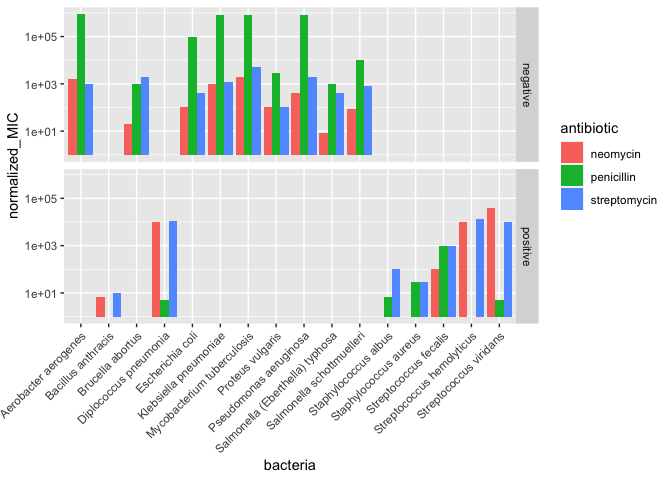
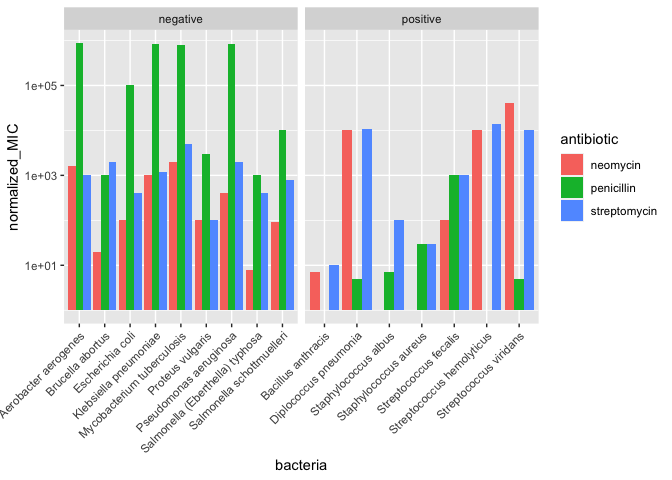
Resubmitting assignment 5

Changed region(s): [[0.0, 0.0, 1.0, 0.9375], [0.4062, 0.9375, 0.5, 1.0]]

diff --git a/challenges/c05-antibiotics-assignment.md b/challenges/c05-antibiotics-assignment.md
@@ -163,15 +163,36 @@ df_pivoted <-
   )
 
 
+min_MIC <- min(df_pivoted$MIC)
 df_pivoted %>%
-  mutate(normalized_MIC = MIC / min(MIC)) %>% 
+  mutate(normalized_MIC = MIC / min_MIC) %>% 
   ggplot() + 
   geom_col(position = "dodge", aes(fill = antibiotic, x = bacteria, y = normalized_MIC)) +
   theme(axis.text.x = element_text(angle = 45, hjust = 1)) +
-  scale_y_log10()
+  scale_y_log10() +
+  geom_hline(yintercept = 0.1/min_MIC)
 ```
 
 ![](c05-antibiotics-assignment_files/figure-gfm/q1.1-1.png)<!-- -->
+
+``` r
+df_pivoted
+```
+
+    ## # A tibble: 48 × 4
+    ##    bacteria              gram     antibiotic       MIC
+    ##    <chr>                 <chr>    <chr>          <dbl>
+    ##  1 Aerobacter aerogenes  negative penicillin   870    
+    ##  2 Aerobacter aerogenes  negative streptomycin   1    
+    ##  3 Aerobacter aerogenes  negative neomycin       1.6  
+    ##  4 Brucella abortus      negative penicillin     1    
+    ##  5 Brucella abortus      negative streptomycin   2    
+    ##  6 Brucella abortus      negative neomycin       0.02 
+    ##  7 Bacillus anthracis    positive penicillin     0.001
+    ##  8 Bacillus anthracis    positive streptomycin   0.01 
+    ##  9 Bacillus anthracis    positive neomycin       0.007
+    ## 10 Diplococcus pneumonia positive penicillin     0.005
+    ## # … with 38 more rows
 
 #### Visual 2 (All variables)
 
@@ -190,7 +211,7 @@ df_pivoted %>%
   geom_col(position = "dodge", aes(fill = antibiotic, x = bacteria, y = normalized_MIC)) +
   theme(axis.text.x = element_text(angle = 45, hjust = 1)) +
   scale_y_log10() +
-  facet_grid(rows = vars(gram))
+  facet_grid(cols = vars(gram), scales = "free_x") 
 ```
 
 ![](c05-antibiotics-assignment_files/figure-gfm/q1.2-1.png)<!-- -->
@@ -205,7 +226,7 @@ Note that your visual must be *qualitatively different* from *all* of
 your other visuals.
 
 ``` r
-# WRITE YOUR CODE HERE
+# Visual 3
 df_pivoted %>%
   filter(antibiotic == "penicillin") %>% 
   mutate(normalized_MIC = MIC / min(MIC)) %>%
@@ -216,7 +237,7 @@ df_pivoted %>%
   scale_y_log10()
 ```
 
-![](c05-antibiotics-assignment_files/figure-gfm/q1.3-1.png)<!-- -->
+![](c05-antibiotics-assignment_files/figure-gfm/q1.3_modified-1.png)<!-- -->
 
 #### Visual 4 (Some variables)
 
@@ -228,17 +249,24 @@ Note that your visual must be *qualitatively different* from *all* of
 your other visuals.
 
 ``` r
-df_pivoted %>%
-  filter(antibiotic == "streptomycin") %>% 
-  mutate(normalized_MIC = MIC / min(MIC)) %>%
-  arrange(+normalized_MIC) %>%
-  ggplot() + 
-  geom_col(position = "dodge", aes(fill = antibiotic, x = reorder(bacteria, normalized_MIC), y = normalized_MIC)) +
+df_antibiotics %>%
+  rowwise() %>% 
+  mutate(max_MIC = 100000 * min(penicillin, streptomycin, neomycin)) %>% 
+  ggplot(aes(x = reorder(bacteria, max_MIC), y = max_MIC, fill = gram)) +
+  geom_col(position = "dodge") +
+  labs(title = "MIC values by Gram stain of bacteria",
+       x = "Bacteria", y = " Max MIC value * 10^5",
+       fill = "Gram Stain") +
+  scale_fill_manual(values = c("purple", "yellow")) +
+  scale_color_identity(guide = "none") +
+  theme_minimal() +
+  theme(legend.position = "bottom") + 
   theme(axis.text.x = element_text(angle = 45, hjust = 1)) +
-  scale_y_log10()
+  scale_y_continuous(trans = "log10", limits = c(0.01, NA), breaks = c(0.01, 0.1, 1, 10, 100)) +
+  geom_hline(yintercept = 10000)
 ```
 
-![](c05-antibiotics-assignment_files/figure-gfm/q1.4-1.png)<!-- -->
+![](c05-antibiotics-assignment_files/figure-gfm/q1.4_modified-1.png)<!-- -->
 
 #### Visual 5 (Some variables)
 
@@ -250,16 +278,26 @@ Note that your visual must be *qualitatively different* from *all* of
 your other visuals.
 
 ``` r
-# WRITE YOUR CODE HERE
-df_pivoted %>%
-  filter(antibiotic == "neomycin") %>% 
-  mutate(normalized_MIC = MIC / min(MIC)) %>%
-  arrange(+normalized_MIC) %>%
-  ggplot() + 
-  geom_col(position = "dodge", aes(fill = antibiotic, x = reorder(bacteria, normalized_MIC), y = normalized_MIC)) +
-  theme(axis.text.x = element_text(angle = 45, hjust = 1)) +
-  scale_y_log10()
+library(tidyverse)
+library(ggrepel)
+
+df_antibiotics %>%
+  rowwise() %>% 
+  mutate(max_MIC = max(penicillin, streptomycin, neomycin)) %>% 
+  mutate(avg_MIC = mean(c(penicillin, streptomycin, neomycin)),
+         sd_MIC = sd(c(penicillin, streptomycin, neomycin))) %>%
+  ggplot(aes(x = avg_MIC, y = sd_MIC)) +
+  geom_point(size = 3, color = "black") +
+  geom_text_repel(aes(label = bacteria), size = 3, color = "black",
+                  box.padding = 0.5, max.segment.length = 10, max.overlaps = 100) +
+  labs(title = "MIC values by Gram stain of bacteria",
+       x = "Average MIC value of penicillin, streptomycin, and neomycin",
+       y = "Standard deviation of MIC values") +
+  theme_minimal()
 ```
+
+    ## Warning in geom_text_repel(aes(label = bacteria), size = 3, color = "black", :
+    ## Ignoring unknown parameters: `max.segment.length`
 
 ![](c05-antibiotics-assignment_files/figure-gfm/q1.5-1.png)<!-- -->
 
@@ -304,11 +342,10 @@ and in 1984 *Streptococcus fecalis* was renamed *Enterococcus fecalis*
 
 *Observations* - What is your response to the question above? - (Write
 your response here) - Which of your visuals above (1 through 5) is
-**most effective** at helping to answer this question? - None of them
-do, that information is not present in the data, it would be rank
-speculation to come up with an answer from any of these visuals - Why? -
-The information simply isn’t present. There is no evidence for any
-answer that we can work with.
+**most effective** at helping to answer this question? - Visual 4 does
+the best, it shows it grouped with two other streptococcus bacteria. -
+Why? - Because its resistances are similar to theirs, it was grouped
+with them as streptococcus according to the american scientist article.
 
 # References
 
